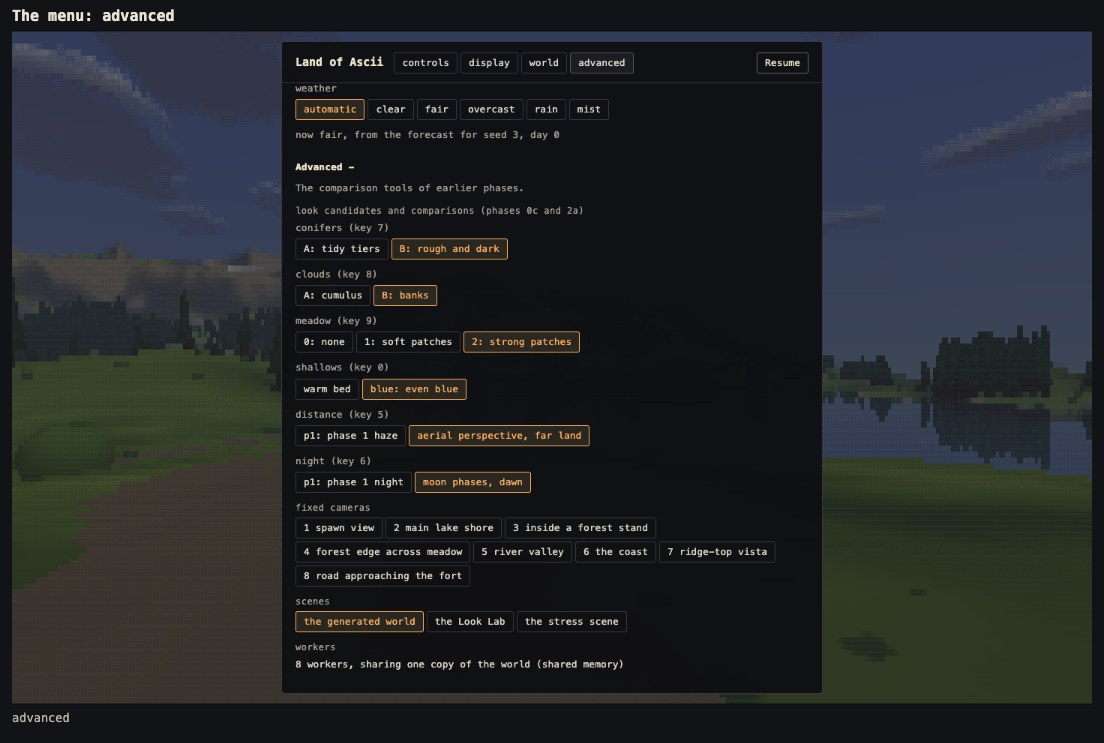
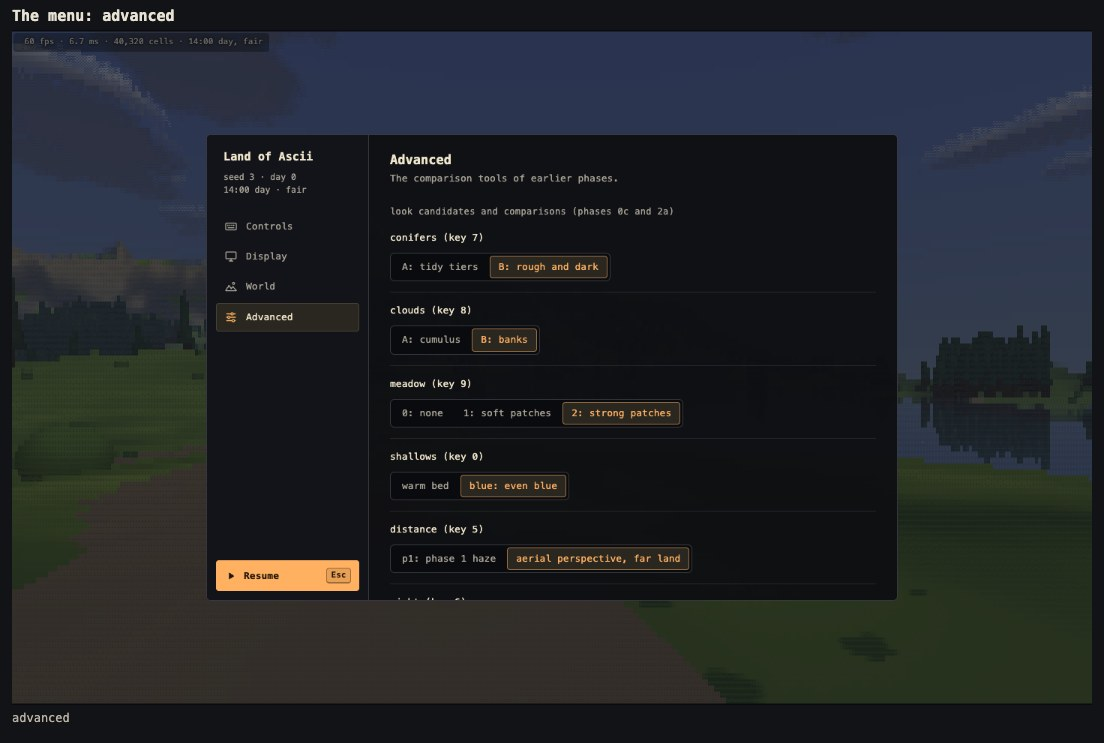
record the changes after phase 2b

Changed region(s): [[0.0, 0.031, 0.8315, 0.9596]]

diff --git a/docs/phase2b.md b/docs/phase2b.md
@@ -6,8 +6,8 @@ Written 11 Oct 2026. Phase 2b adds weather to the world; a menu on Escape that e
 
 | Key or option | Does |
 |---|---|
-| Esc | the menu: every key explained, the Display options, the World (seed, time, weather) and, collapsed, the Advanced tools of earlier phases. Esc again, Resume, or a click beside it closes it. |
-| H | full statistics on or off (by default the screen shows none) |
+| Esc | the menu: every key explained, the Display options, the World (seed, time, weather) and the Advanced tools of earlier phases, each a tab (section 7: laid out again after phase 2b). Esc again, Resume, or a click beside it closes it. |
+| H | full statistics on or off (by default one compact line since after phase 2b, section 7) |
 | everything else | as before: WASD, Shift, F, Space, arrows, 1 2 3 4, T, C, G, R, M, L with 5 to 0, X, − +, and `?seed`, `?day`, `?density`, `?threads`, `?lab`, `?stress` |
 
 ---
@@ -69,6 +69,8 @@ The rules are in `docs/art-bible.md`, section 5c.
 
 ## 2. The menu
 
+*(The pictures show the menu as laid out again after phase 2b, with the statistics on by default: section 7.)*
+
 ![The menu's four sections](../shots/phase2b/menu.jpg)
 
 ![The screen: start card, hint, clean](../shots/phase2b/screen.jpg)
@@ -87,7 +89,7 @@ The rules are in `docs/art-bible.md`, section 5c.
 
 **Built** as plain HTML over the canvas, vanilla JavaScript and CSS (`src/app/menu.js`, `src/app/settings.js`), in the game's monospace with the art bible's colours (the map's cream for headings, the torch orange for what is chosen and for the focus ring). Every control works by mouse and by keyboard alone; Tab stays inside the menu; every control has a visible focus, a pointer cursor and hover feedback; transitions run 150 to 300 ms. It fits 1024 × 640 without scrolling sideways.
 
-**The screen is almost free of text.** By default no statistics show, only a small hint that Escape opens the menu, fading after four seconds. Full statistics show when chosen in Display or with H. The first visit shows a start card: the title, "click to explore", and four keys.
+**The screen is almost free of text.** By default no statistics show (one compact line since after phase 2b, section 7), only a small hint that Escape opens the menu, fading after four seconds. Full statistics show when chosen in Display or with H. The first visit shows a start card: the title, "click to explore", and four keys.
 
 **For the tools:** `lab.menu` opens, closes and reads the menu; `lab.setQuiet` suppresses the menu, the hint and the start card, and `tools/lib/serve.mjs` (and the walk recorder) set that before the page starts, so no tool's picture or measurement changes because of them.
 
@@ -283,3 +285,35 @@ Choices made within the brief that Martin may want to change; each is a number i
 - **The lake's wet band** is capped at the 0.5 m accepted in phase 2a, so it narrows on steeper shores but never widens past what was accepted.
 - **The menu:** a click beside it closes it without taking the mouse (so it is never left captured); leaving the tab while the mouse is captured opens it and pauses the game; Escape closes it but cannot take the mouse back (browsers refuse that on Escape), so Resume does. The time speeds offered are stopped, real time, an hour a minute (as T), an hour in 15 s and an hour in 4 s. Mouse sensitivity runs from 0.25× to 3×.
 - **The clouds' drift on the weather's wind** counts game time, a game hour as a real minute (the clock's own pace), so with the clock running at that pace they move at the weather's wind; with the clock stopped they drift at fair's speed.
+
+## 7. After phase 2b: big screens, the statistics, the menu laid out again
+
+Martin's Windows 11 test machine gave 22 frames a second full screen on a 4K screen, and was fine in a smaller window; he asked for the frame rate and a few statistics on by default, and for the menu to be easier to find one's way in, with icons.
+
+**Big screens.** Each detail level was a cell *size*, chosen so a 1440 × 900 window holds its number of cells; a bigger window held more. Full screen on 4K at Windows' usual 150% scaling, "fine" drew 115,200 cells, not about 40,000 as the menu says (at 100%, 259,200). Now a window bigger than 1440 × 900 gets bigger cells, so the count stays near the level's number on any screen; a smaller window keeps the old cell size (fewer cells, faster), and every tool's picture (1440 × 900) is unchanged: the regression set is still 0.00%. `src/app/grid.js`.
+
+**The frame pacer** asked for a frame at most every second refresh. Workers slower than that lost most frames: on a 120 Hz screen, frames of 17 to 27 ms came out at 12 to 15 a second, where a steady 30 or 40 was in reach. It now goes down to every eighth refresh when it must, and only then (`MAX_EVERY` in `src/app/pace.js`); a machine that keeps up sees no change.
+
+Measured on the Mac in headed Chromium at the lake (the slowest of the eight views), 8 workers unless said:
+
+| | cells | frame (slowest worker) | frames a second |
+|---|---|---|---|
+| 4K at 150%, before | 115,200 | 17.3 ms | 14.7 |
+| 4K at 150%, now | 41,472 | 7.7 ms | 60 |
+| 4K at 200% (a Mac), before | 64,800 | 11.4 ms | 60 |
+| 4K at 200%, now | 41,472 | 7.7 ms | 60 |
+| 2 workers (a slow machine), pacer before | 40,320 | 27.4 ms | 12.1 |
+| 2 workers, pacer now | 40,320 | 27.4 ms | 29.1 |
+| 1 worker, pacer before | 40,320 | 53.3 ms | 9.3 |
+| 1 worker, pacer now | 40,320 | 53.9 ms | 12.9 |
+
+**The statistics** are on by default: one line top left with the frame rate, the time a frame takes the slowest worker, the cell count, the time and the weather ("compact"; "off" and "full" are the other choices, and H still shows full statistics). Choices kept in a browser before this change had them off by default, so their statistics choice is dropped once and the rest kept. The tools' pictures carry none unless a tool asks.
+
+**The menu, laid out again** (`src/app/menu.js`, `src/app/icons.js`, the styles in `src/index.html`), in the same monospace and colours:
+- **A rail on the left** names the game, says where and when you are (the seed, the day, the time, the weather) and holds the four sections as tabs with icons: Controls, Display, World, Advanced. One section shows at a time, so nothing scrolls past its heading. Resume, the one filled button, sits at the foot of the rail with its key, Esc.
+- **Controls:** each key drawn as a keycap, right of what it does, in five groups with icons, in two columns.
+- **Display and World:** each setting a row with its name and a line of plain words; one-of-a-few choices as joined buttons, on and off as switches. World opens with the clock and the day, then the time of day and the weather with an icon for each, then the seed.
+- **The keyboard:** the arrow keys move between the tabs; Tab goes from the tab into its section, then to Resume, and stays inside the menu. On a narrow window the rail becomes a bar across the top.
+- **The icons** are drawn for the game on a 24-unit grid in one stroke weight, no emoji or Unicode symbols. The start card and the hint draw their keys as keycaps too.
+
+The menu check (`tools/menu-check.mjs`) now passes 29 of 29: the tabs and every section's controls by keyboard, the statistics on from the start, the choices kept from before the change, and a 4K screen at 100% and 150% keeping about 40,000 cells (41,472).

diff --git a/README.md b/README.md
@@ -12,7 +12,7 @@ A text-rendered explorer, rebuilt from the ground up. Every frame is a grid of m
 
 **Phase 2a, air and far land:** aerial perspective that thins with height, so distance stays readable; far mountains with lit faces, shaded flanks, gullies and snow, and a backdrop range past the north and east edges; the moon's phases, moonlit and starlit nights, and a dawn of its own; a coast with a wet band, a foam line and a swell; copses in the open lowland; viewpoints at the brows of their hills. Each new rule can be switched back to phase 1's in the look panel (5 and 6).
 
-**Phase 2b, weather and the menu:** weather from a forecast that is a pure function of the seed, the day and the hour (clear, fair, overcast, rain and a morning mist that pools in the hollows and over the lakes, burning off as the sun climbs); rain streaks, rings on water and wet ground that dries; a menu on Escape with every control and option, and a screen almost free of text; five look fixes (a dark silhouette for the far range at dusk, warm far rock, no snow line along the crests, no specks in the dawn sky, a lake's wet band that follows its shore and a better coast camera).
+**Phase 2b, weather and the menu:** weather from a forecast that is a pure function of the seed, the day and the hour (clear, fair, overcast, rain and a morning mist that pools in the hollows and over the lakes, burning off as the sun climbs); rain streaks, rings on water and wet ground that dries; a menu on Escape with every control and option (since laid out as tabs with icons, with the frame rate and a few statistics on screen by default, and big screens drawn at the same cost as a 1440 × 900 window); five look fixes (a dark silhouette for the far range at dusk, warm far rock, no snow line along the crests, no specks in the dawn sky, a lake's wet band that follows its shore and a better coast camera).
 
 - Play: https://land-of-ascii-v3.vercel.app/ (shared memory). Also https://oddslice.github.io/land-of-ascii-v3/ (each worker its own copy, at most 4 workers).
 - A seed: `?seed=N` (the default is 3). The moon: `?day=N` (0 a bright moon, 15 a dark one). The lab: `?lab=1`. The stress scene: `?stress=1`.
@@ -24,6 +24,6 @@ npm run dev      # http://localhost:5190/ (cross-origin isolated; NOISO=1 for wi
 npm run build    # the single-file index.html
 ```
 
-Esc opens the menu: every key explained, the display options (kept in the browser), the world (seed, time, weather) and the comparison tools of earlier phases. Keys in the world: WASD walk (Shift runs) · F fly (Space climbs) · M map · R new world · click or drag to look · 1 2 3 4 day, dusk, night, dawn · T time runs · C cameras · G glyphs off/on · − + density · L look panel (7 8 9 0 5 6 cycle its choices) · H statistics. In the lab and the stress scene, R shows the reference (local copies only) and X switches between them.
+Esc opens the menu: every key explained, the display options (kept in the browser), the world (seed, time, weather) and the comparison tools of earlier phases, each a tab. Keys in the world: WASD walk (Shift runs) · F fly (Space climbs) · M map · R new world · click or drag to look · 1 2 3 4 day, dusk, night, dawn · T time runs · C cameras · G glyphs off/on · − + density · L look panel (7 8 9 0 5 6 cycle its choices) · H statistics. In the lab and the stress scene, R shows the reference (local copies only) and X switches between them.
 
 Vanilla JavaScript in ES modules. The scene is marched on the CPU in module workers, and the cells are drawn with WebGL2 in one call. No runtime dependencies.
